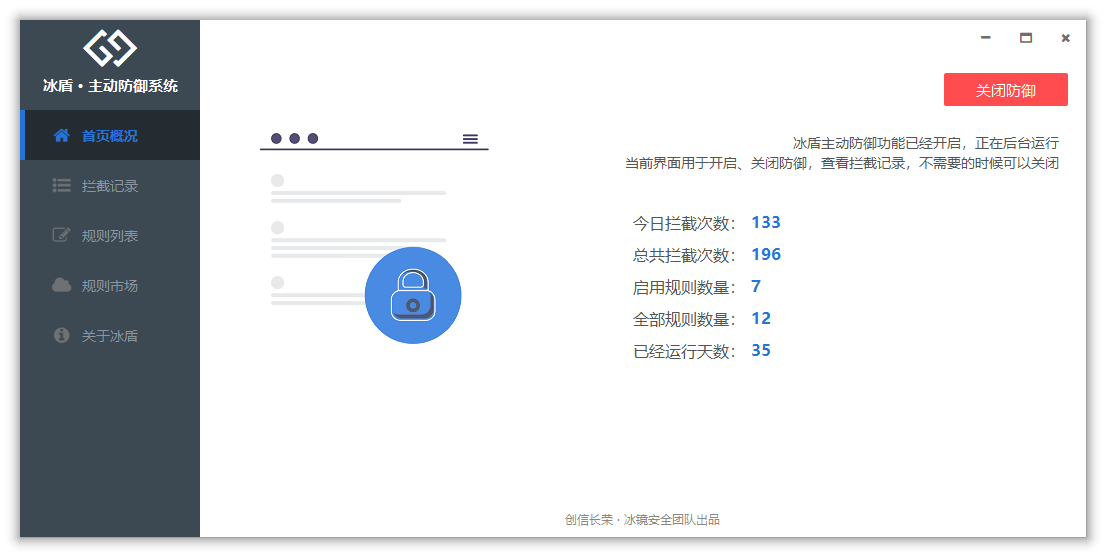
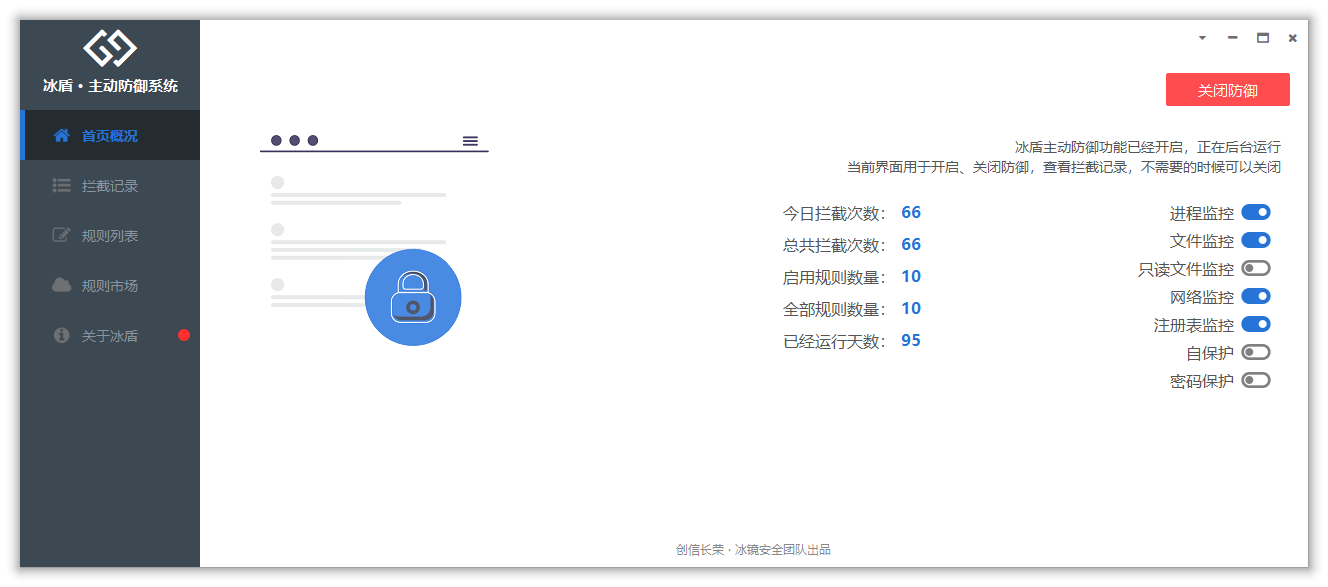
iDefender 2.4

diff --git a/docs/idefender/index.md b/docs/idefender/index.md
@@ -35,6 +35,8 @@ nav:
 
 ![home](./doc/rules.png)
 
+![home](./doc/ask.png)
+
 ![home](./doc/templates.png)
 
 ![home](./doc/rule_process.png)
@@ -50,6 +52,30 @@ nav:
 ![home](./doc/about.png)
 
 ## 版本说明
+### 2.4.0.0
+
+- 添加更多的响应动作支持（拦截、**弹框**、记录）
+  - **添加拦截弹框交互支持**
+  - 添加弹框信任列表
+
+- **添加网络端口防火墙支持**
+  - 可以拦截永恒之蓝漏洞等
+
+- **添加导入默认规则**、规则导入、规则导出功能
+- 优化规则列表界面
+  - 支持Switch直接切换开启、关闭
+  - 支持响应动作下拉框切换
+  - 支持多选、del键删除
+
+- 规则编辑界面支持添加规则说明
+- 添加开机默认启动托盘（弹框需要托盘进程的支持）
+- 拦截记录添加响应动作列（方便识别记录模式）
+- 优化一些界面使用体验
+- 修复一些问题
+
+<div class = "md_footer" >
+  <a href = "https://imonitorsdk.com/publish/iDefender.exe"> <button class="main-button"> 软件下载 </button></a>
+</div>
 
 ### 2.3.0.0
 
@@ -63,10 +89,6 @@ nav:
 - 添加家长控制（密码保护）功能
 - 优化一些界面使用体验
 - 修复一些问题
-
-<div class = "md_footer" >
-  <a href = "https://imonitorsdk.com/publish/iDefender.exe"> <button class="main-button"> 软件下载 </button></a>
-</div>
 
 ### 2.2.0.0
 
